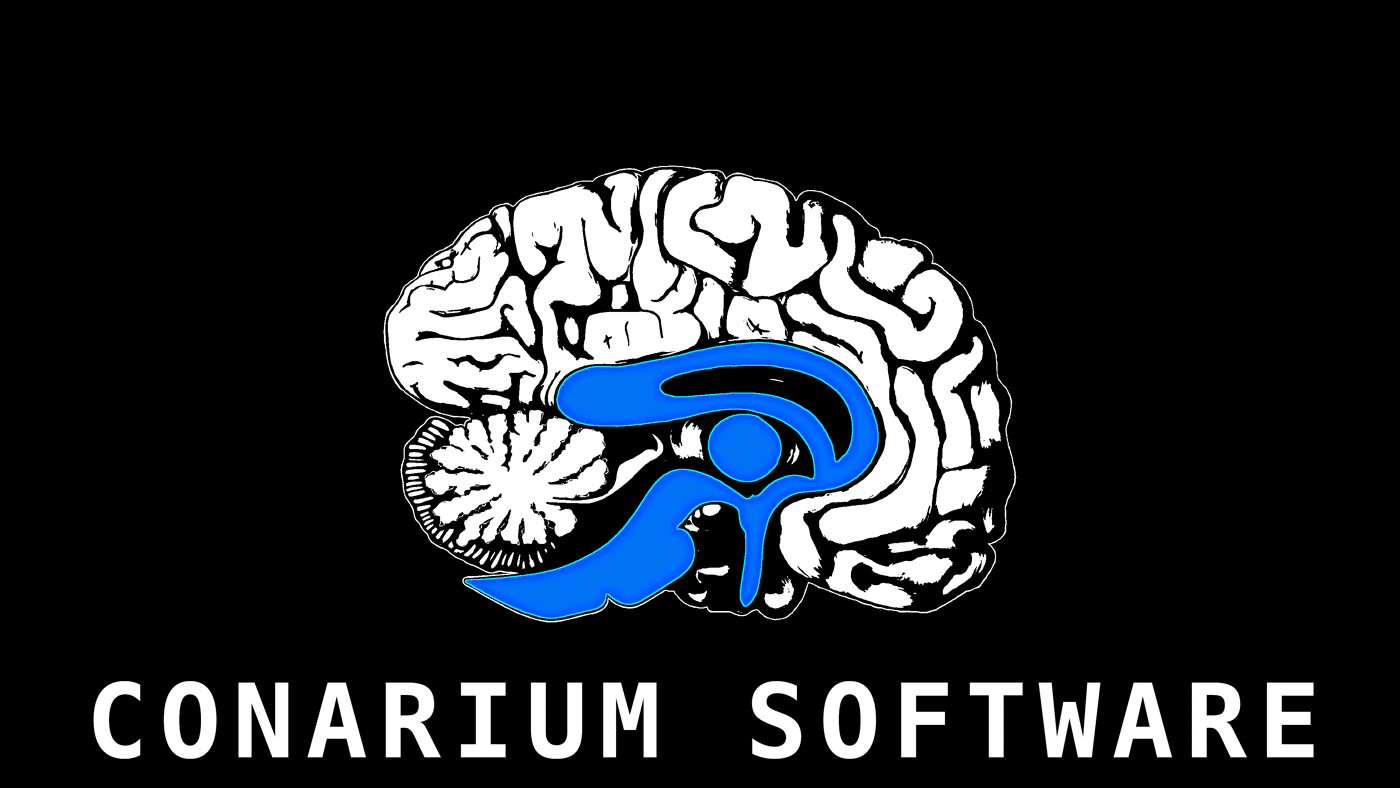
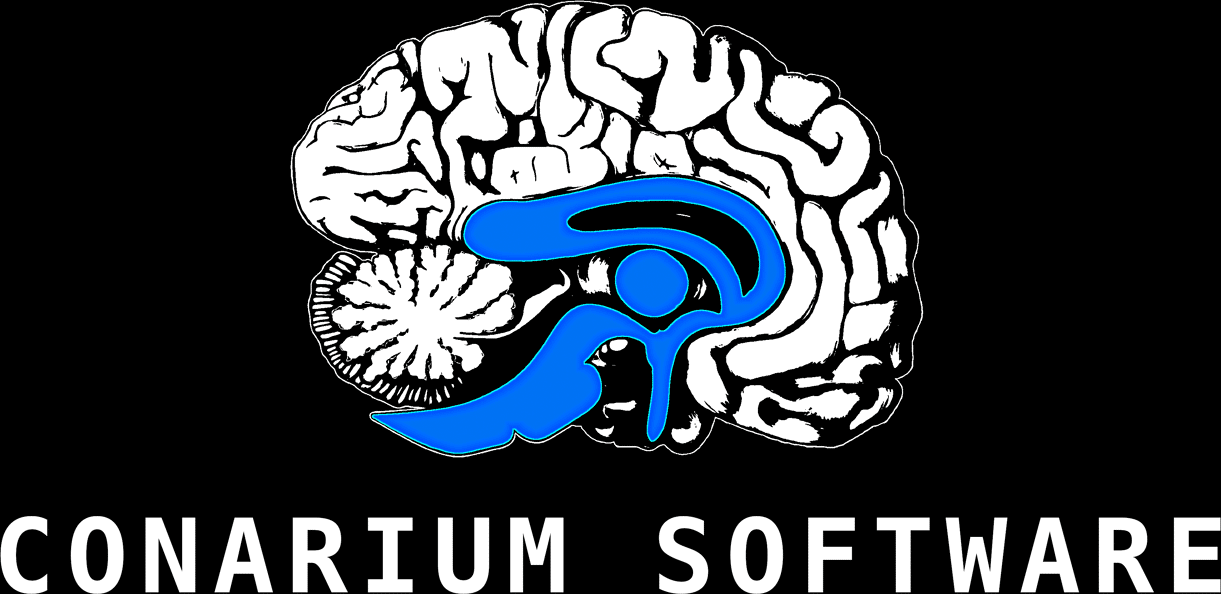
Visual Fixes

Changed region(s): [[0.2179, 0.0, 0.7469, 0.7879], [0.5291, 0.8485, 1.0, 1.0], [0.0, 0.8485, 0.4668, 1.0]]

diff --git a/index.html b/index.html
@@ -2,7 +2,7 @@
 
 <html lang="en">
   <head>
-    <title>Pleasant Thoughtful Newt</title>
+    <title>Conarium Website Homepage</title>
     <meta property="og:title" content="Pleasant Thoughtful Newt" />
     <meta property="twitter:card" content="summary_large_image" />
     <meta charset="utf-8" />
@@ -64,17 +64,16 @@
             alt="image"
             src="public/playground_assets/csoft-1400w.png"
             class="home-image"
+            style="width:100%"
           />
         </div>
         <div class="home-banner">
           <span class="home-text">
-            <span>
-              We&apos;re a collective of Artists, Software Engineers, and
+              We are a group of Artists, Software Engineers, and
               Designers interested in making interesting things.
-            </span>
           </span>
           <span class="home-text2">
-            <span>Corporate Mission Statements Are Lame.</span>
+            Corporate Mission Statements Are Lame.
           </span>
         </div>
         <div class="home-banner1">
@@ -94,7 +93,7 @@
               </div>
               <h2 class="gallery-card1-text"><span>LIMITED STEPS</span></h2>
               <span class="gallery-card1-text1">
-                <span>Social game with limited number of footsteps.</span>
+                <span>Social Walking Simulator.</span>
               </span>
             </div>
             <div
@@ -109,7 +108,7 @@
               </div>
               <h2 class="gallery-card1-text"><span>VR ISLANDS</span></h2>
               <span class="gallery-card1-text1">
-                <span>Social game with limited number of footsteps.</span>
+                <span>VR and Non-VR Hangout!</span>
               </span>
             </div>
             <div
@@ -124,7 +123,7 @@
               </div>
               <h2 class="gallery-card1-text"><span>CAVE GAME</span></h2>
               <span class="gallery-card1-text1">
-                <span>Social game with limited number of footsteps.</span>
+                <span>Open Source Terraria Clone</span>
               </span>
             </div>
             <div
@@ -139,7 +138,7 @@
               </div>
               <h2 class="gallery-card1-text"><span>POWERNOID</span></h2>
               <span class="gallery-card1-text1">
-                <span>Social game with limited number of footsteps.</span>
+                <span>Top-Down Action Shooter</span>
               </span>
             </div>
             <div
@@ -154,7 +153,7 @@
               </div>
               <h2 class="gallery-card1-text"><span>MAGIC GARDEN</span></h2>
               <span class="gallery-card1-text1">
-                <span>Social game with limited number of footsteps.</span>
+                <span>Social Gardening Simulator</span>
               </span>
             </div>
             <div
@@ -169,7 +168,7 @@
               </div>
               <h2 class="gallery-card1-text"><span>PROTOTYPE VR</span></h2>
               <span class="gallery-card1-text1">
-                <span>Social game with limited number of footsteps.</span>
+                <span>Early VR Physics Experiments.</span>
               </span>
             </div>
           </div>
@@ -215,6 +214,26 @@
               </span>
               <span class="staff-gallery-card-text2">
                 <span>owen@conarium.software</span>
+              </span>
+            </div>
+            <div
+              class="staff-gallery-card-gallery-card staff-gallery-card-root-class-name1"
+            >
+              <div class="staff-gallery-card-container">
+                <img
+                  alt="image"
+                  src="public/playground_assets/anthony-300w.png"
+                  class="staff-gallery-card-image"
+                />
+              </div>
+              <h2 class="staff-gallery-card-text">
+                <span>Anthony Olivas</span>
+              </h2>
+              <span class="staff-gallery-card-text1">
+                <span>Level Designer</span>
+              </span>
+              <span class="staff-gallery-card-text2">
+                <span>anthony@conarium.software</span>
               </span>
             </div>
             <div
@@ -275,26 +294,7 @@
                 <span>alyssa@conarium.software</span>
               </span>
             </div>
-            <div
-              class="staff-gallery-card-gallery-card staff-gallery-card-root-class-name1"
-            >
-              <div class="staff-gallery-card-container">
-                <img
-                  alt="image"
-                  src="public/playground_assets/anthony-300w.png"
-                  class="staff-gallery-card-image"
-                />
-              </div>
-              <h2 class="staff-gallery-card-text">
-                <span>Anthony Olivas</span>
-              </h2>
-              <span class="staff-gallery-card-text1">
-                <span>Level Designer</span>
-              </span>
-              <span class="staff-gallery-card-text2">
-                <span>anthony@conarium.software</span>
-              </span>
-            </div>
+            
           </div>
         </div>
       </div>

diff --git a/home.css b/home.css
@@ -27,7 +27,7 @@
   text-decoration: underline;
 }
 .gallery-card1-text1 {
-  color: var(--dl-color-gray-500);
+  color: darkgrey;
   font-size: 20px;
   align-self: center;
   font-style: normal;
@@ -66,13 +66,14 @@
   display: flex;
   align-items: flex-start;
   justify-content: center;
+  background-color: #2b2b2b;
 }
 .staff-gallery-card-image {
   width: 300px;
   object-fit: cover;
 }
 .staff-gallery-card-text {
-  color: #6f6f6f;
+  color: #f95c5c;
   font-size: 30px;
   align-self: center;
   font-style: normal;
@@ -82,7 +83,7 @@
   margin-bottom: var(--dl-space-space-halfunit);
 }
 .staff-gallery-card-text1 {
-  color: #2b2b2b;
+  color: #D9D9D9;
   font-size: 16px;
   align-self: center;
   font-style: normal;
@@ -90,7 +91,7 @@
   font-weight: 700;
 }
 .staff-gallery-card-text2 {
-  color: #2b2b2b;
+  color: #D9D9D9;
   font-size: 16px;
   align-self: center;
   font-style: normal;
@@ -112,6 +113,7 @@
 }
 
 .home-container {
+  background-color: black;
   width: 100%;
   display: flex;
   overflow: auto;
@@ -120,6 +122,7 @@
   flex-direction: column;
 }
 .home-container1 {
+
   flex: 0 0 auto;
   width: auto;
   height: auto;
@@ -189,11 +192,13 @@
   margin-bottom: var(--dl-space-space-unit);
 }
 .home-container2 {
+  background-color: #111;
   flex: 0 0 auto;
   width: 100%;
   height: auto;
   display: flex;
-  align-items: flex-start;
+  align-items: center;
+  justify-content: center;
 }
 .home-gallery {
   width: 100%;
@@ -224,11 +229,13 @@
   margin-bottom: var(--dl-space-space-unit);
 }
 .home-container3 {
+  background-color: #111;
   flex: 0 0 auto;
   width: 100%;
   height: auto;
   display: flex;
   align-items: flex-start;
+  justify-content: center;
 }
 .home-gallery1 {
   width: 100%;
@@ -238,6 +245,7 @@
   position: relative;
   max-width: var(--dl-size-size-maxwidth);
   grid-template-columns: 1fr 1fr 1fr;
+  justify-content: center;
 }
 @media(max-width: 991px) {
   .home-gallery {
